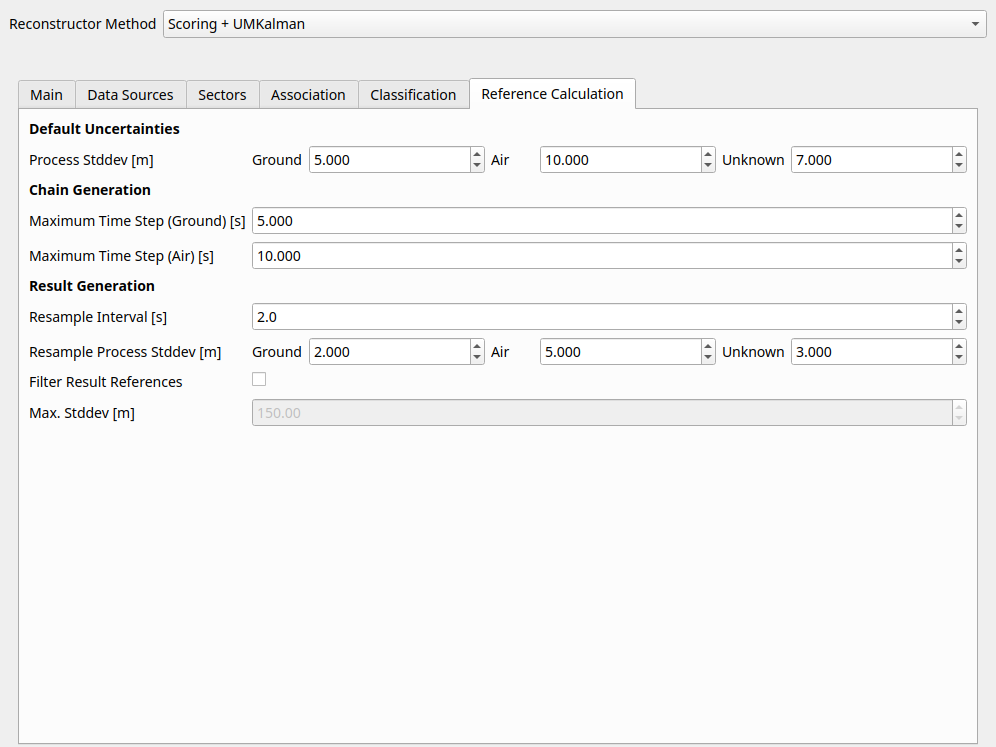
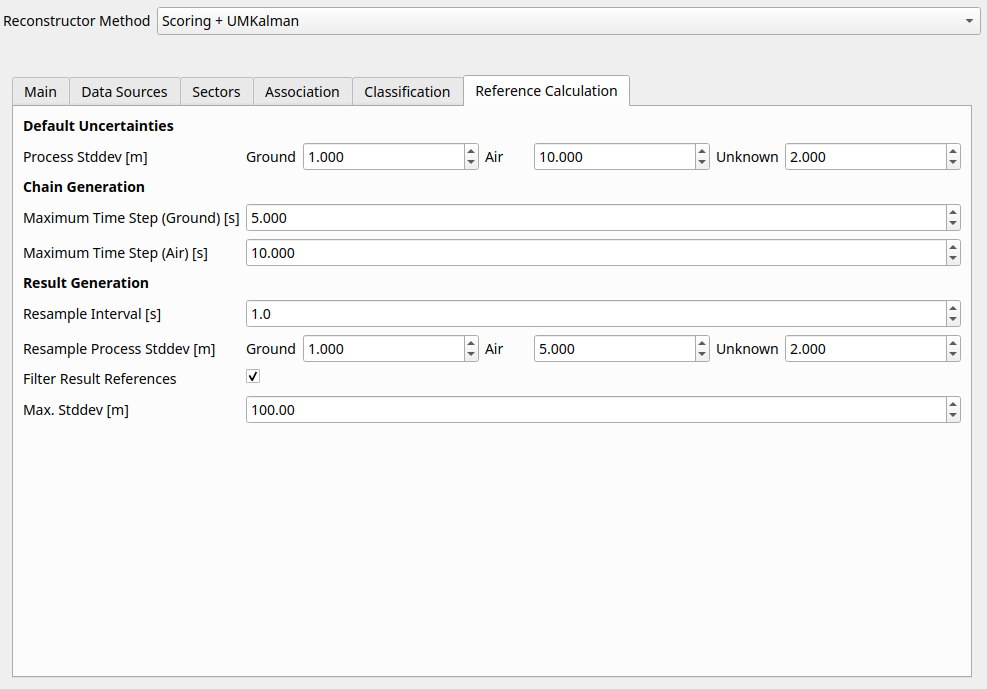
doc up

diff --git a/doc/user_manual/reconst/reconstructor_config.tex b/doc/user_manual/reconst/reconstructor_config.tex
@@ -73,11 +73,14 @@ In this tab, the association parameters can be set, i.e. the thresholds used to 
   \begin{tabularx}{\textwidth}{ | l | l | X |}
     \hline
     \textbf{Parameter} & \textbf{Default} &  \textbf{Description} \\ \hline
-    Maximum Comparison Time Difference [s] & 15 & Maximum time delta for any code/position comparison \\ \hline 
+    Maximum Comparison Time Difference [s] & 6 & Maximum time delta for any code/position comparison \\ \hline 
     Maximum Track Time Difference [s] & 300 & Maximum time delta to a previously associated track \\ \hline
-    Maximum Erroneous Distance [m] & 18520 & Target/target association \\ \hline
-    Maximum Dubious Distance [m] & 5556 & Target/target association \\ \hline
-    Maximum Acceptable Distance [m] & 1852 & Target/target association \\ \hline
+    Maximum Erroneous Distance Air [m] & 9260 & Target/target association \\ \hline
+    Maximum Dubious Distance Air [m] & 3704 & Target/target association \\ \hline
+    Maximum Acceptable Distance Air [m] & 1852 & Target/target association \\ \hline
+    Maximum Erroneous Distance Ground [m] & 90 & Target/target association \\ \hline
+    Maximum Dubious Distance Ground [m] & 60 & Target/target association \\ \hline
+    Maximum Acceptable Distance Ground [m] & 40 & Target/target association \\ \hline
     Maximum Altitude Difference [ft] & 300 & Maximum altitude difference \\ \hline
     Do Track Number Disassoc. Using Distance & false & Whether to disassociate track numbers from targets based on position \\ \hline
     Track Number Disassoc. Distance Factor [1] & 3 & Maximum number of standard deviations distance \\ \hline
